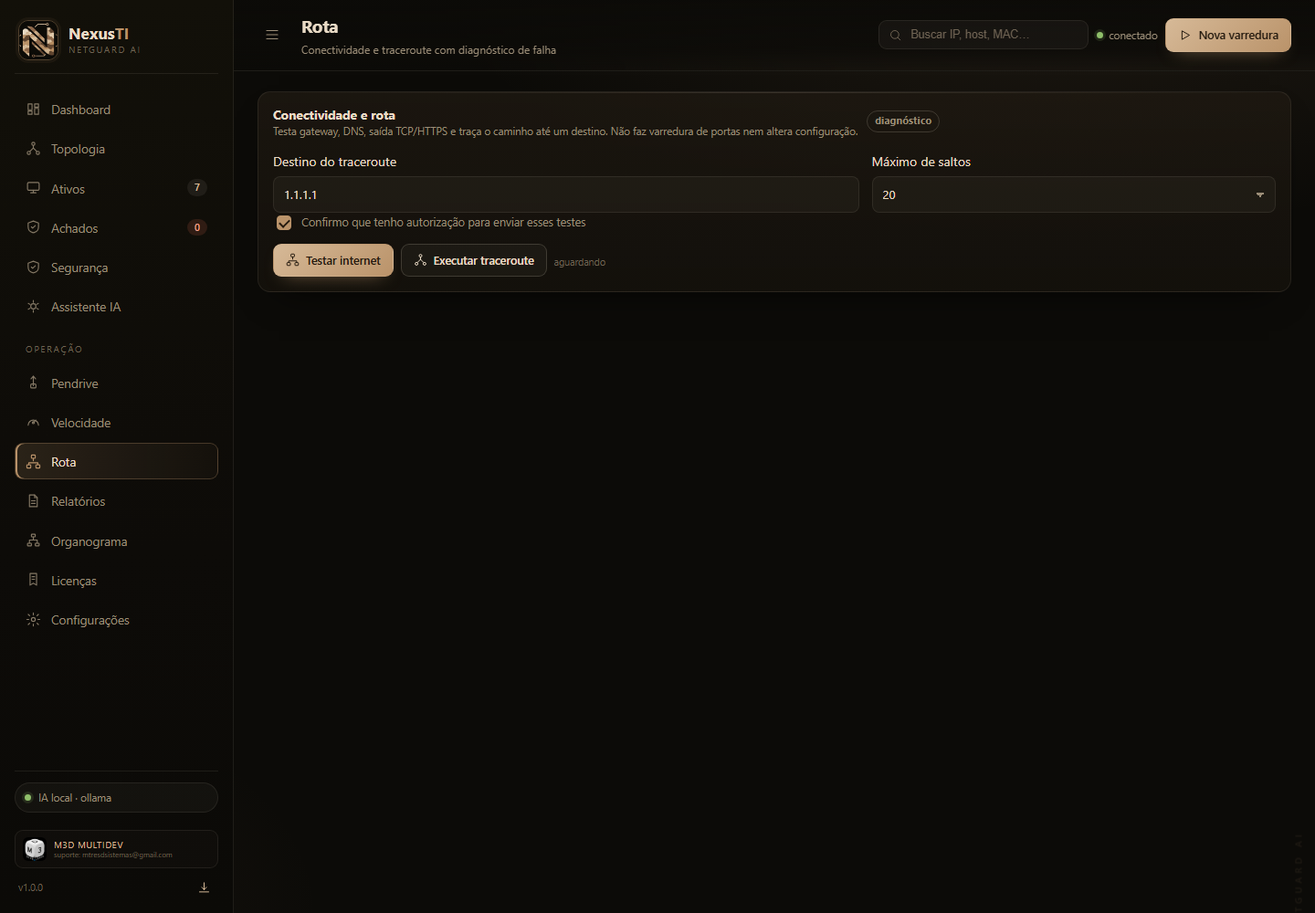
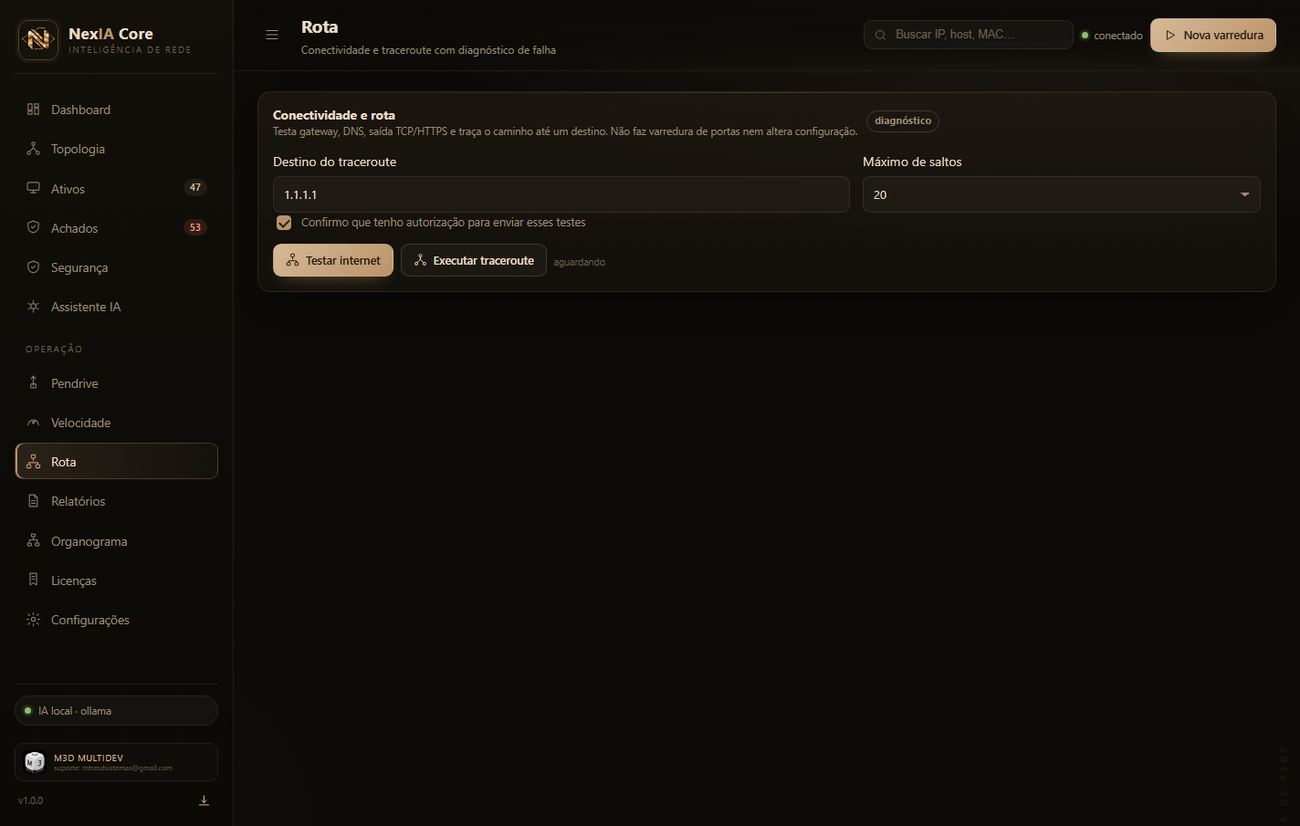
rebrand: NexIA Core, nova marca e formulário

diff --git a/index.html b/index.html
@@ -3,23 +3,23 @@
 <head>
   <meta charset="utf-8" />
   <meta name="viewport" content="width=device-width, initial-scale=1" />
-  <title>NexusTI — Inteligência de rede local | NetGuard AI</title>
-  <meta name="description" content="Descoberta, topologia, auditoria de postura e diagnóstico de rede em um único painel local. IA privada, operação somente leitura e relatórios executivos. Conheça o NexusTI." />
+  <title>NexIA Core — Inteligência de rede local</title>
+  <meta name="description" content="Descoberta, topologia, auditoria de postura e diagnóstico de rede em um único painel local. IA privada, operação somente leitura e relatórios executivos. Conheça o NexIA Core." />
   <meta name="theme-color" content="#080706" />
-  <link rel="canonical" href="https://nexusti.vercel.app/" />
+  <link rel="canonical" href="https://nexiacore.vercel.app/" />
   <meta property="og:type" content="website" />
   <meta property="og:locale" content="pt_BR" />
-  <meta property="og:site_name" content="NexusTI" />
-  <meta property="og:url" content="https://nexusti.vercel.app/" />
-  <meta property="og:title" content="NexusTI — A rede inteira. Sob controle." />
+  <meta property="og:site_name" content="NexIA Core" />
+  <meta property="og:url" content="https://nexiacore.vercel.app/" />
+  <meta property="og:title" content="NexIA Core — A rede inteira. Sob controle." />
   <meta property="og:description" content="Descoberta, auditoria e diagnóstico de rede com IA local. Sem nuvem, sem exposição desnecessária." />
-  <meta property="og:image" content="https://nexusti.vercel.app/assets/og.jpg" />
+  <meta property="og:image" content="https://nexiacore.vercel.app/assets/og.jpg" />
   <meta property="og:image:width" content="1200" />
   <meta property="og:image:height" content="630" />
   <meta name="twitter:card" content="summary_large_image" />
-  <meta name="twitter:title" content="NexusTI — A rede inteira. Sob controle." />
+  <meta name="twitter:title" content="NexIA Core — A rede inteira. Sob controle." />
   <meta name="twitter:description" content="Descoberta, auditoria e diagnóstico de rede com IA local." />
-  <meta name="twitter:image" content="https://nexusti.vercel.app/assets/og.jpg" />
+  <meta name="twitter:image" content="https://nexiacore.vercel.app/assets/og.jpg" />
   <link rel="icon" href="assets/favicon.png" sizes="any" />
   <link rel="apple-touch-icon" href="assets/apple-touch.png" />
   <link rel="preconnect" href="https://fonts.googleapis.com" />
@@ -31,13 +31,13 @@
   {
     "@context": "https://schema.org",
     "@type": "SoftwareApplication",
-    "name": "NexusTI",
-    "alternateName": "NetGuard AI",
+    "name": "NexIA Core",
+    "alternateName": "NexIA",
     "applicationCategory": "SecurityApplication",
     "operatingSystem": "Windows 10, Windows 11",
     "description": "Descoberta, topologia, auditoria de postura e diagnóstico de rede com IA local.",
-    "url": "https://nexusti.vercel.app/",
-    "publisher": { "@type": "Organization", "name": "NexusTI", "email": "mtresdsistemas@gmail.com" }
+    "url": "https://nexiacore.vercel.app/",
+    "publisher": { "@type": "Organization", "name": "NexIA Core", "email": "mtresdsistemas@gmail.com" }
   }
   </script>
 </head>
@@ -66,9 +66,9 @@
 
   <header class="site-header" id="topo">
     <div class="container header__inner">
-      <a class="brand" href="#topo" aria-label="NexusTI — início">
+      <a class="brand" href="#topo" aria-label="NexIA Core — início">
         <img class="brand__mark" src="assets/brand-mark.png" alt="" width="42" height="42" />
-        <span class="brand__type"><strong>NexusTI</strong><small>NETGUARD AI</small></span>
+        <span class="brand__type"><strong>NexIA Core</strong><small>INTELIGÊNCIA DE REDE</small></span>
       </a>
       <nav class="nav" id="nav" aria-label="Navegação principal">
         <a href="#plataforma">Plataforma</a>
@@ -96,7 +96,7 @@
         <div class="hero__copy">
           <p class="eyebrow"><span class="pulse"></span> Inteligência de rede · operação local</p>
           <h1>Enxergue a rede.<br /><em>Antes que ela falhe.</em></h1>
-          <p class="hero__lead">Descoberta, topologia, auditoria de postura e diagnóstico em um único painel. O NexusTI transforma dados dispersos em decisões — sem enviar a sua rede para a nuvem.</p>
+          <p class="hero__lead">Descoberta, topologia, auditoria de postura e diagnóstico em um único painel. O NexIA Core transforma dados dispersos em decisões — sem enviar a sua rede para a nuvem.</p>
           <div class="hero__actions">
             <a class="btn btn--primary" href="#contato">Solicitar demonstração <svg class="icon"><use href="#i-arrow"/></svg></a>
             <a class="btn btn--ghost" href="#produto"><svg class="icon"><use href="#i-play"/></svg> Ver o produto</a>
@@ -110,8 +110,8 @@
 
         <div class="hero__visual">
           <div class="window window--hero" data-tilt>
-            <div class="window__bar"><span></span><span></span><span></span><small>NexusTI · painel local</small><i class="window__live">ao vivo</i></div>
-            <img src="assets/shots/dashboard-data.png" alt="Painel do NexusTI com visão geral da rede, postura de segurança e ativos descobertos" width="1440" height="1000" />
+            <div class="window__bar"><span></span><span></span><span></span><small>NexIA Core · painel local</small><i class="window__live">ao vivo</i></div>
+            <img src="assets/shots/dashboard-data.png" alt="Painel do NexIA Core com visão geral da rede, postura de segurança e ativos descobertos" width="1440" height="1000" />
           </div>
           <div class="float-card float-card--ai">
             <span class="float-card__icon"><svg class="icon"><use href="#i-ai"/></svg></span>
@@ -180,7 +180,7 @@
             <p class="kicker">A plataforma</p>
             <h2>Quatro camadas.<br /><em>Uma rede inteira.</em></h2>
           </div>
-          <p class="section-head__lead">Do primeiro pacote ao relatório executivo. O NexusTI conecta descoberta, mapa, auditoria e diagnóstico em um fluxo só.</p>
+          <p class="section-head__lead">Do primeiro pacote ao relatório executivo. O NexIA Core conecta descoberta, mapa, auditoria e diagnóstico em um fluxo só.</p>
         </div>
         <div class="pillars__grid">
           <article class="pillar reveal">
@@ -289,10 +289,10 @@
 
         <div class="showcase__stage">
           <div class="window window--stage">
-            <div class="window__bar"><span></span><span></span><span></span><small id="stageTitle">NexusTI · dashboard</small><i class="window__live">produto real</i></div>
-            <div class="stage-slide is-active" data-panel="dashboard"><img src="assets/shots/dashboard-data.png" alt="Dashboard do NexusTI com postura de segurança, ativos e identidade" /></div>
-            <div class="stage-slide" data-panel="security"><img src="assets/shots/security.png" alt="Aba Segurança do NexusTI com verificação passiva e relatórios" /></div>
-            <div class="stage-slide" data-panel="route"><img src="assets/shots/route.png" alt="Aba Rota do NexusTI com traceroute e diagnóstico de conectividade" /></div>
+            <div class="window__bar"><span></span><span></span><span></span><small id="stageTitle">NexIA Core · dashboard</small><i class="window__live">produto real</i></div>
+            <div class="stage-slide is-active" data-panel="dashboard"><img src="assets/shots/dashboard-data.png" alt="Dashboard do NexIA Core com postura de segurança, ativos e identidade" /></div>
+            <div class="stage-slide" data-panel="security"><img src="assets/shots/security.png" alt="Aba Segurança do NexIA Core com verificação passiva e relatórios" /></div>
+            <div class="stage-slide" data-panel="route"><img src="assets/shots/route.png" alt="Aba Rota do NexIA Core com traceroute e diagnóstico de conectividade" /></div>
           </div>
           <aside class="stage-aside">
             <span class="tag">Em operação</span>
@@ -320,7 +320,7 @@
           <ol class="steps">
             <li class="reveal">
               <span class="steps__num">01</span>
-              <div><h3>Defina o escopo</h3><p>Informe a sub-rede, a janela e a autorização. O NexusTI valida o limite, ignora adaptadores virtuais e escolhe o modo passivo por padrão.</p></div>
+              <div><h3>Defina o escopo</h3><p>Informe a sub-rede, a janela e a autorização. O NexIA Core valida o limite, ignora adaptadores virtuais e escolhe o modo passivo por padrão.</p></div>
             </li>
             <li class="reveal">
               <span class="steps__num">02</span>
@@ -328,7 +328,7 @@
             </li>
             <li class="reveal">
               <span class="steps__num">03</span>
-              <div><h3>Entregue e acompanhe</h3><p>Relatório em PDF, CSV ou JSON, com achados, severidade e comandos. A equipe aplica com janela e rollback — o NexusTI não altera nada.</p></div>
+              <div><h3>Entregue e acompanhe</h3><p>Relatório em PDF, CSV ou JSON, com achados, severidade e comandos. A equipe aplica com janela e rollback — o NexIA Core não altera nada.</p></div>
             </li>
           </ol>
         </div>
@@ -369,7 +369,7 @@
         </div>
         <div class="deep__visual reveal">
           <div class="chat-card">
-            <div class="chat-card__head"><img src="assets/brand-mark.png" alt="" width="26" height="26" /><span>Assistente NexusTI</span><i class="status-dot"></i></div>
+            <div class="chat-card__head"><img src="assets/brand-mark.png" alt="" width="26" height="26" /><span>Assistente NexIA Core</span><i class="status-dot"></i></div>
             <div class="chat-bubble chat-bubble--user">Como corrigir SMBv1 no Windows Server?</div>
             <div class="chat-bubble chat-bubble--ai"><strong>SMBv1 habilitado no host</strong><span>Desative o recurso, remova o protocolo legado e valide com um novo scan. Abaixo, o comando e o rollback.</span><code>Disable-WindowsOptionalFeature -Online -FeatureName smb1protocol</code></div>
             <div class="chat-input"><span>Pergunte sobre a sua rede…</span><svg class="icon"><use href="#i-arrow"/></svg></div>
@@ -406,7 +406,7 @@
         <div class="safety__copy">
           <p class="kicker">Segurança e limites</p>
           <h2>Poderoso por dentro.<br /><em>Contido por padrão.</em></h2>
-          <p>O NexusTI foi desenhado para operar em redes reais, com regras claras. O padrão é não gerar tráfego novo, não alterar configuração e não explorar falhas.</p>
+          <p>O NexIA Core foi desenhado para operar em redes reais, com regras claras. O padrão é não gerar tráfego novo, não alterar configuração e não explorar falhas.</p>
           <div class="safety__badge"><svg class="icon"><use href="#i-shield"/></svg><span><strong>Princípio de operação</strong><small>observar, evidendar, recomendar — nunca explorar</small></span></div>
         </div>
         <ul class="guards">
@@ -422,7 +422,7 @@
       <div class="container">
         <div class="section-head section-head--split">
           <div><p class="kicker">Para quem é</p><h2>Feito para a rede<br /><em>que você realmente tem.</em></h2></div>
-          <p class="section-head__lead">Heterogênea, com legado, VLANs e pouca documentação. É aí que o NexusTI faz diferença.</p>
+          <p class="section-head__lead">Heterogênea, com legado, VLANs e pouca documentação. É aí que o NexIA Core faz diferença.</p>
         </div>
         <div class="audience__grid">
           <article class="audience-card reveal"><span class="tag">TI interna</span><h3>Menos tempo apagando incêndio.</h3><p>Inventário, postura e diagnóstico em um só lugar. A equipe chega ao problema com evidência, não com tentativa.</p></article>
@@ -485,7 +485,7 @@
           <a class="link" href="#contato">Falar com especialista <svg class="icon"><use href="#i-arrow"/></svg></a>
         </div>
         <div class="faq__list">
-          <details open><summary>O NexusTI precisa de internet?</summary><p>Não. A descoberta, a auditoria, a IA e a licença funcionam localmente. A internet só é necessária para baixar o instalador ou falar com o suporte.</p></details>
+          <details open><summary>O NexIA Core precisa de internet?</summary><p>Não. A descoberta, a auditoria, a IA e a licença funcionam localmente. A internet só é necessária para baixar o instalador ou falar com o suporte.</p></details>
           <details><summary>Ele altera a configuração da rede?</summary><p>Não. O produto é somente leitura: descobre, audita e recomenda. Nenhuma alteração é aplicada automaticamente; os comandos ficam com a equipe responsável.</p></details>
           <details><summary>Qual o escopo máximo de uma varredura?</summary><p>Até /22 por execução, com limite de 4.096 hosts. Redes mais amplas são rejeitadas para evitar varreduras acidentais.</p></details>
           <details><summary>Como funciona a IA?</summary><p>Um modelo local via Ollama, com fallback para regras e playbooks. A topologia, os achados e as perguntas não são enviados para a nuvem.</p></details>
@@ -508,7 +508,7 @@
               <li><svg class="icon"><use href="#i-check"/></svg> Escopo e janela definidos com a sua equipe</li>
               <li><svg class="icon"><use href="#i-check"/></svg> Resposta em até 1 dia útil</li>
             </ul>
-            <p class="cta__small">Prefere e-mail? <a href="mailto:mtresdsistemas@gmail.com?subject=Demonstra%C3%A7%C3%A3o%20NexusTI">mtresdsistemas@gmail.com</a></p>
+            <p class="cta__small">Prefere e-mail? <a href="mailto:mtresdsistemas@gmail.com?subject=Demonstra%C3%A7%C3%A3o%20NexIA Core">mtresdsistemas@gmail.com</a></p>
           </div>
 
           <div class="lead-card">
@@ -539,7 +539,7 @@
               <label class="field"><span>O que você precisa enxergar?</span>
                 <textarea class="textarea" name="message" rows="3" maxlength="1200" placeholder="Ex.: inventário de VLANs, postura de segurança, diagnóstico de internet…"></textarea>
               </label>
-              <label class="consent"><input type="checkbox" name="consent" required /> Concordo em ser contatado sobre o NexusTI e li a <a href="#" data-legal="privacidade">política de privacidade</a>.</label>
+              <label class="consent"><input type="checkbox" name="consent" required /> Concordo em ser contatado sobre o NexIA Core e li a <a href="#" data-legal="privacidade">política de privacidade</a>.</label>
               <input class="honeypot" type="text" name="website" tabindex="-1" autocomplete="off" aria-hidden="true" />
               <input type="hidden" name="source" value="landing" />
               <button class="btn btn--primary lead-form__submit" type="submit" id="leadSubmit">Enviar solicitação <svg class="icon"><use href="#i-arrow"/></svg></button>
@@ -555,7 +555,7 @@
   <footer class="footer">
     <div class="container footer__grid">
       <div class="footer__brand">
-        <a class="brand" href="#topo"><img class="brand__mark" src="assets/brand-mark.png" alt="" width="42" height="42" /><span class="brand__type"><strong>NexusTI</strong><small>NETGUARD AI</small></span></a>
+        <a class="brand" href="#topo"><img class="brand__mark" src="assets/brand-mark.png" alt="" width="42" height="42" /><span class="brand__type"><strong>NexIA Core</strong><small>INTELIGÊNCIA DE REDE</small></span></a>
         <p>Inteligência de rede local para quem precisa enxergar antes de agir.</p>
       </div>
       <div class="footer__col"><h4>Produto</h4><a href="#plataforma">Plataforma</a><a href="#recursos">Recursos</a><a href="#produto">Telas</a><a href="#seguranca">Segurança</a></div>
@@ -563,7 +563,7 @@
       <div class="footer__col"><h4>Legal</h4><a href="#" data-legal="privacidade">Privacidade</a><a href="#" data-legal="termos">Termos</a><a href="#" data-legal="licenca">Licença</a></div>
     </div>
     <div class="container footer__bottom">
-      <span>© <span id="year">2026</span> NexusTI · NetGuard AI. Desenvolvido por M3D MULTIDEV.</span>
+      <span>© <span id="year">2026</span> NexIA Core · Inteligência de rede. Desenvolvido por M3D MULTIDEV.</span>
       <span class="footer__badge"><span class="status-dot"></span> Operação local · sem cloud</span>
     </div>
   </footer>

diff --git a/script.js b/script.js
@@ -1,4 +1,4 @@
-/* NexusTI — interações leves, sem dependências */
+/* NexIA Core — interações leves, sem dependências */
 (function () {
   "use strict";
 
@@ -92,19 +92,19 @@
   const tabs = $$("[data-tab]");
   const content = {
     dashboard: {
-      title: "NexusTI · dashboard",
+      title: "NexIA Core · dashboard",
       heading: "A rede em uma tela.",
       text: "Ativos, achados, postura e identidade. O resumo que a equipe abre primeiro — e entende sem treinamento.",
       list: ["Postura por severidade e camada OSI", "Identidade, DNS, DHCP e Active Directory", "Prioridades do dia e atalhos de ação"],
     },
     security: {
-      title: "NexusTI · segurança",
+      title: "NexIA Core · segurança",
       heading: "Verificação que não invade.",
       text: "Checagem passiva de exposição sobre os ativos já descobertos, com evidência e recomendação para a equipe aplicar.",
       list: ["SMBv1, Telnet, RDP, SNMP e HTTP admin", "Sem exploit, força bruta ou alteração", "Relatório PDF, CSV e JSON"],
     },
     route: {
-      title: "NexusTI · rota",
+      title: "NexIA Core · rota",
       heading: "O caminho até o problema.",
       text: "Gateway, DNS, TCP e HTTPS em sequência. O traceroute mostra o salto onde a conexão para de responder.",
       list: ["Diagnóstico de internet em segundos", "Rota salto a salto com latência", "Evidência pronta para o chamado"],
@@ -157,7 +157,7 @@
     const mailtoBase = "mailto:mtresdsistemas@gmail.com";
     const fallback = (data) => {
       const body = [
-        "Solicitação de demonstração — NexusTI",
+        "Solicitação de demonstração — NexIA Core",
         "",
         `Nome: ${data.name || ""}`,
         `E-mail: ${data.email || ""}`,
@@ -168,7 +168,7 @@
         "Necessidade:",
         data.message || "",
       ].join("\n");
-      const url = `${mailtoBase}?subject=${encodeURIComponent("Demonstração NexusTI — " + (data.company || data.name || "site"))}&body=${encodeURIComponent(body)}`;
+      const url = `${mailtoBase}?subject=${encodeURIComponent("Demonstração NexIA Core — " + (data.company || data.name || "site"))}&body=${encodeURIComponent(body)}`;
       status.className = "form-status is-error";
       status.innerHTML = `Não foi possível enviar agora. <a href="${url}">Enviar por e-mail</a> ou tente novamente.`;
     };
@@ -216,15 +216,15 @@
   const legal = {
     privacidade: {
       title: "Privacidade",
-      body: "<p>O produto NexusTI opera localmente. Não enviamos inventário, topologia, credenciais ou achados para servidores externos.</p><p>Os dados do produto ficam no banco SQLite da própria máquina, em <code>data/</code>, e os relatórios são gerados localmente. O assistente de IA usa um modelo local via Ollama; nenhuma pergunta é enviada para a nuvem.</p><p>Este site não usa analytics. Quando você envia o formulário de contato, nome, e-mail, empresa e mensagem são usados apenas para responder à solicitação e podem transitar pela Vercel e pelo provedor de e-mail configurado.</p>",
+      body: "<p>O produto NexIA Core opera localmente. Não enviamos inventário, topologia, credenciais ou achados para servidores externos.</p><p>Os dados do produto ficam no banco SQLite da própria máquina, em <code>data/</code>, e os relatórios são gerados localmente. O assistente de IA usa um modelo local via Ollama; nenhuma pergunta é enviada para a nuvem.</p><p>Este site não usa analytics. Quando você envia o formulário de contato, nome, e-mail, empresa e mensagem são usados apenas para responder à solicitação e podem transitar pela Vercel e pelo provedor de e-mail configurado.</p>",
     },
     termos: {
       title: "Termos de uso",
-      body: "<p>O NexusTI é uma ferramenta de observação e auditoria. O uso deve ser autorizado pelo responsável pela rede e limitado ao escopo declarado.</p><p>O produto não executa exploração de falhas, força bruta, negação de serviço ou alteração automática de configuração. As recomendações devem ser aplicadas pela equipe responsável, com janela e rollback.</p><p>A licença é vinculada à máquina e válida pelo prazo emitido.</p>",
+      body: "<p>O NexIA Core é uma ferramenta de observação e auditoria. O uso deve ser autorizado pelo responsável pela rede e limitado ao escopo declarado.</p><p>O produto não executa exploração de falhas, força bruta, negação de serviço ou alteração automática de configuração. As recomendações devem ser aplicadas pela equipe responsável, com janela e rollback.</p><p>A licença é vinculada à máquina e válida pelo prazo emitido.</p>",
     },
     licenca: {
       title: "Licença",
-      body: "<p>O NexusTI oferece um período de avaliação de 7 dias. Após esse prazo, a ativação é feita por licença local assinada (Ed25519), vinculada à máquina.</p><p>A ativação é offline: você importa o arquivo <code>.lic</code> na tela de ativação. Não há servidor de licença nem validação online.</p>",
+      body: "<p>O NexIA Core oferece um período de avaliação de 7 dias. Após esse prazo, a ativação é feita por licença local assinada (Ed25519), vinculada à máquina.</p><p>A ativação é offline: você importa o arquivo <code>.lic</code> na tela de ativação. Não há servidor de licença nem validação online.</p>",
     },
   };
   const openLegal = (key) => {

diff --git a/api/lead.js b/api/lead.js
@@ -4,7 +4,7 @@
  * Variáveis na Vercel:
  *   RESEND_API_KEY   chave da Resend
  *   LEAD_TO          destinatário (pode separar por vírgula)
- *   LEAD_FROM        remetente verificado, ex. "NexusTI <contato@seudominio.com>"
+ *   LEAD_FROM        remetente verificado, ex. "NexIA Core <contato@seudominio.com>"
  *   LEAD_WEBHOOK_URL opcional: recebe o JSON em vez de e-mail
  *
  * Sem configuração, responde 503; a página oferece o fallback por e-mail.
@@ -104,7 +104,7 @@ module.exports = async function handler(req, res) {
 
   const key = process.env.RESEND_API_KEY;
   const to = (process.env.LEAD_TO || "").split(",").map((item) => item.trim()).filter(Boolean);
-  const from = process.env.LEAD_FROM || "NexusTI <onboarding@resend.dev>";
+  const from = process.env.LEAD_FROM || "NexIA Core <onboarding@resend.dev>";
   if (!key || !to.length) {
     res.status(503).json({
       error: "Formulário ainda não configurado.",
@@ -127,7 +127,7 @@ module.exports = async function handler(req, res) {
   ];
   const html = `
     <div style="font-family:Segoe UI,Arial,sans-serif;background:#0c0b08;color:#f1e6d7;padding:24px">
-      <h2 style="margin:0 0 16px;color:#c49a6c">Nova solicitação — NexusTI</h2>
+      <h2 style="margin:0 0 16px;color:#c49a6c">Nova solicitação — NexIA Core</h2>
       <table style="border-collapse:collapse;font-size:14px">
         ${[
           ["Nome", lead.name], ["E-mail", lead.email], ["Empresa", lead.company],
@@ -151,7 +151,7 @@ module.exports = async function handler(req, res) {
         from,
         to,
         reply_to: lead.email,
-        subject: `Demonstração NexusTI — ${lead.company}`,
+        subject: `Demonstração NexIA Core — ${lead.company}`,
         text: lines.join("\n"),
         html,
       }),

diff --git a/styles.css b/styles.css
@@ -1,5 +1,5 @@
 /* ==========================================================================
-   NexusTI — landing page
+   NexIA Core — landing page
    Paleta derivada da marca: preto profundo, bronze, areia e creme.
    ========================================================================== */
 
@@ -120,7 +120,7 @@ button { font: inherit; color: inherit; }
     linear-gradient(180deg, rgba(8,7,6,.72) 0%, transparent 24%, transparent 66%, var(--bg) 100%);
 }
 .hero__inner { display: grid; grid-template-columns: 1.02fr 1fr; align-items: center; gap: 56px; padding-bottom: 64px; }
-.hero__copy { max-width: 650px; }
+.hero__copy { max-width: 680px; }
 .eyebrow, .kicker {
   display: inline-flex; align-items: center; gap: 10px;
   margin: 0 0 18px; color: var(--bronze); font-family: var(--display);
@@ -131,7 +131,7 @@ button { font: inherit; color: inherit; }
 
 .hero h1 {
   margin: 0; font-family: var(--display); font-weight: 300;
-  font-size: clamp(48px, 5.2vw, 76px); line-height: .98; letter-spacing: -.055em;
+  font-size: clamp(42px, 4.2vw, 64px); line-height: .98; letter-spacing: -.055em;
 }
 .hero h1 em, .section h2 em, .cta h2 em { font-family: var(--serif); font-style: italic; font-weight: 400; color: var(--sand); letter-spacing: -.02em; }
 .hero__lead { max-width: 530px; margin: 25px 0 30px; color: var(--muted); font-size: 15.5px; line-height: 1.72; }

diff --git a/README.md b/README.md
@@ -1,6 +1,6 @@
-# NexusTI — landing page
+# NexIA Core — landing page
 
-Site institucional estático do **NexusTI / NetGuard AI**, feito para importar direto na Vercel.
+Site institucional estático do **NexIA Core / Inteligência de rede**, feito para importar direto na Vercel.
 
 ## Stack
 
@@ -19,7 +19,7 @@ Abra `http://127.0.0.1:8088`.
 
 ## Publicar na Vercel
 
-1. Importe o repositório `dekup-system/nexusti` na Vercel.
+1. Importe o repositório `repositório do projeto` na Vercel.
 2. Framework preset: **Other**.
 3. Build command: vazio.
 4. Output directory: `.` (raiz).
@@ -58,7 +58,7 @@ O `vercel.json` já define `cleanUrls` e cache longo para `/assets`.
 ## Imagens
 
 - `assets/img/hero.jpg` e `assets/img/topology.jpg`: geradas com **FLUX.1-schnell** (Hugging Face) para esta página, com prompts de rede, bronze e fundo escuro.
-- `assets/shots/*`: capturas reais do produto NexusTI.
+- `assets/shots/*`: capturas reais do produto NexIA Core.
 - Logomarca e favicon: ativos oficiais da marca.
 
 ## Conteúdo
@@ -93,7 +93,7 @@ Na Vercel, configure em **Settings → Environment Variables**:
 |---|---|---|
 | `RESEND_API_KEY` | sim (para e-mail) | chave da [Resend](https://resend.com) |
 | `LEAD_TO` | sim | destinatário; aceita vírgula |
-| `LEAD_FROM` | recomendada | remetente verificado, ex. `NexusTI <contato@seudominio.com>` |
+| `LEAD_FROM` | recomendada | remetente verificado, ex. `NexIA Core <contato@seudominio.com>` |
 | `LEAD_WEBHOOK_URL` | opcional | se definido, envia o JSON para um webhook em vez de e-mail |
 
 Sem `RESEND_API_KEY`/`LEAD_TO`, a API responde **503** e a página oferece o
@@ -105,4 +105,4 @@ e-mail. Para testar o endpoint, use `vercel dev` com as variáveis acima.
 
 ## Licença
 
-Conteúdo e marca NexusTI. Código da landing page disponibilizado para uso do projeto.
+Conteúdo e marca NexIA Core. Código da landing page disponibilizado para uso do projeto.
